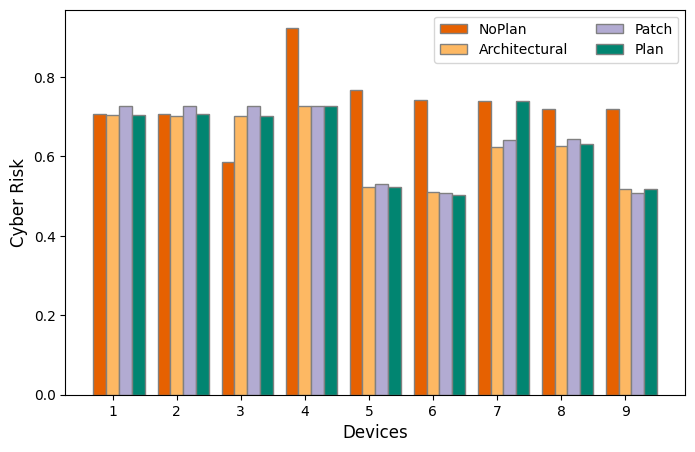
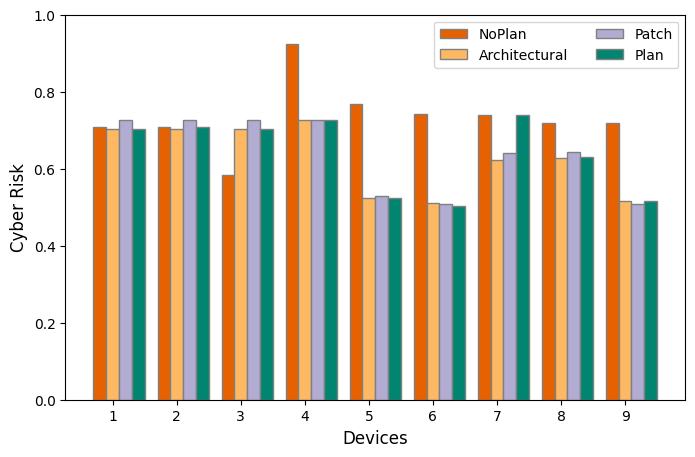
adjusted files

diff --git a/experiments/security_mitigation.py b/experiments/security_mitigation.py
@@ -203,13 +203,13 @@ if __name__=="__main__":
         file_plan = "experiments/strategy_device_"+net_tag+".json"
         file_strategy = "experiments/strategy_computed_"+net_tag+".json"
         
-        # if net_tag == "SHnet":
-        #     folderplans = "planning/planning-files/real_network"
-        # else:
-        #     folderplans = "planning/planning-files/"
+        if net_tag == "SHnet":
+            folderplans = "planning/planning-files/real_network"
+        else:
+            folderplans = "planning/planning-files/healthcare"
         
-        # strategy_per_device = getStrategyDevice(network_file,net_tag)
-        # getPlanStrategy(folderplans,net_tag)
+        strategy_per_device = getStrategyDevice(network_file,net_tag)
+        getPlanStrategy(folderplans,net_tag)
         TP,TN,FN,FP = compare_strategies(file_plan, file_strategy, network_file)
         plot_confusion_matrix(TP,TN,FN,FP,net_tag)
             

diff --git a/experiments/security.py b/experiments/security.py
@@ -132,6 +132,7 @@ def plot_securitymetric(file_security_metrics,file_plan,net_tag,metricfield):
     
     # Adding Xticks 
     label_y = "Cyber Risk" if metricfield=="avg_risk" else "Num. Attacks"
+    if metricfield=="avg_risk": plt.ylim(0,1)
     plt.xlabel('Devices', fontsize = 12) 
     plt.ylabel(label_y, fontsize = 12) 
     plt.xticks([r + barWidth for r in range(len(noplan))], 
@@ -243,6 +244,7 @@ def plot_qos(file_security_metrics,file_qos_metrics,file_plan,folder_plans,file_
     print()
     
     # Adding Xticks 
+    plt.ylim(0,0.6)
     plt.xlabel('Devices', fontsize = 12) 
     plt.ylabel("Latency", fontsize = 12) 
     plt.xticks([r + barWidth for r in range(len(noplan))], 
